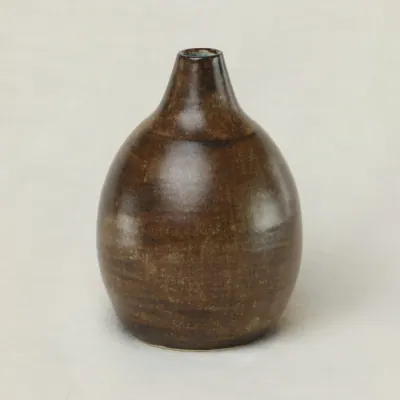
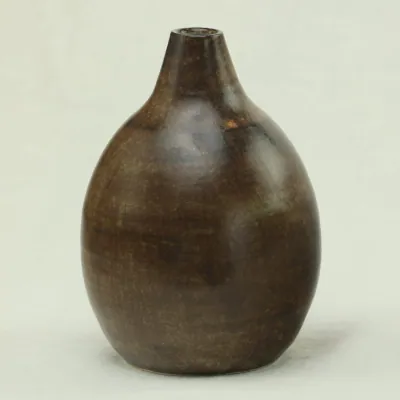
Add two pieces, and give the bud vase a spin that was actually in focus
The speckled squat vase and the terracotta bottle vase were shot on 12 September
at 200mm f/11, 14 and 15 positions, nothing soft in either.

The bud vase is re-shot. The set it replaces was photographed with a focus
bracket that failed, so only one exposure per position was usable and nothing
was ever stacked; it also sat noticeably smaller in its frame than every other
piece, filling 76% of the frame height where the rest fill 88 to 90. The new
set stacks all three brackets. Nine positions were photographed and one was a
capture miss, badly blurred, so eight ship and one turntable step is double
width. A second take at 187mm exists and was not used: fewer positions for no
gain in sharpness.

Frames are named by index, so writing eight over a directory holding twelve
left the last four in place, and because each rung then looked up to date the
frames that do get served were never overwritten. The site would have shown the
old bud vase at 400 and 800 and the new one at 1200. build-spins now deletes
frames numbered past the end of the set, and rebuilds a piece whose recorded
source directory or frame count has changed since the last import.

diff --git a/src/content/pieces/terracotta-glazed-bottle-vase.md b/src/content/pieces/terracotta-glazed-bottle-vase.md
@@ -1,0 +1,13 @@
+---
+title: Terracotta-glazed bottle vase
+workingTitle: true
+date: 2026-09-12
+order: 14
+featured: false
+showInPortfolio: true
+forSale: false
+status: available
+spin: terracotta-bottle-vase
+gallery: []
+scenes: []
+---

diff --git a/src/content/pieces/speckled-squat-vase.md b/src/content/pieces/speckled-squat-vase.md
@@ -1,0 +1,13 @@
+---
+title: Speckled squat vase
+workingTitle: true
+date: 2026-09-12
+order: 13
+featured: false
+showInPortfolio: true
+forSale: false
+status: available
+spin: speckled-squat-vase
+gallery: []
+scenes: []
+---
